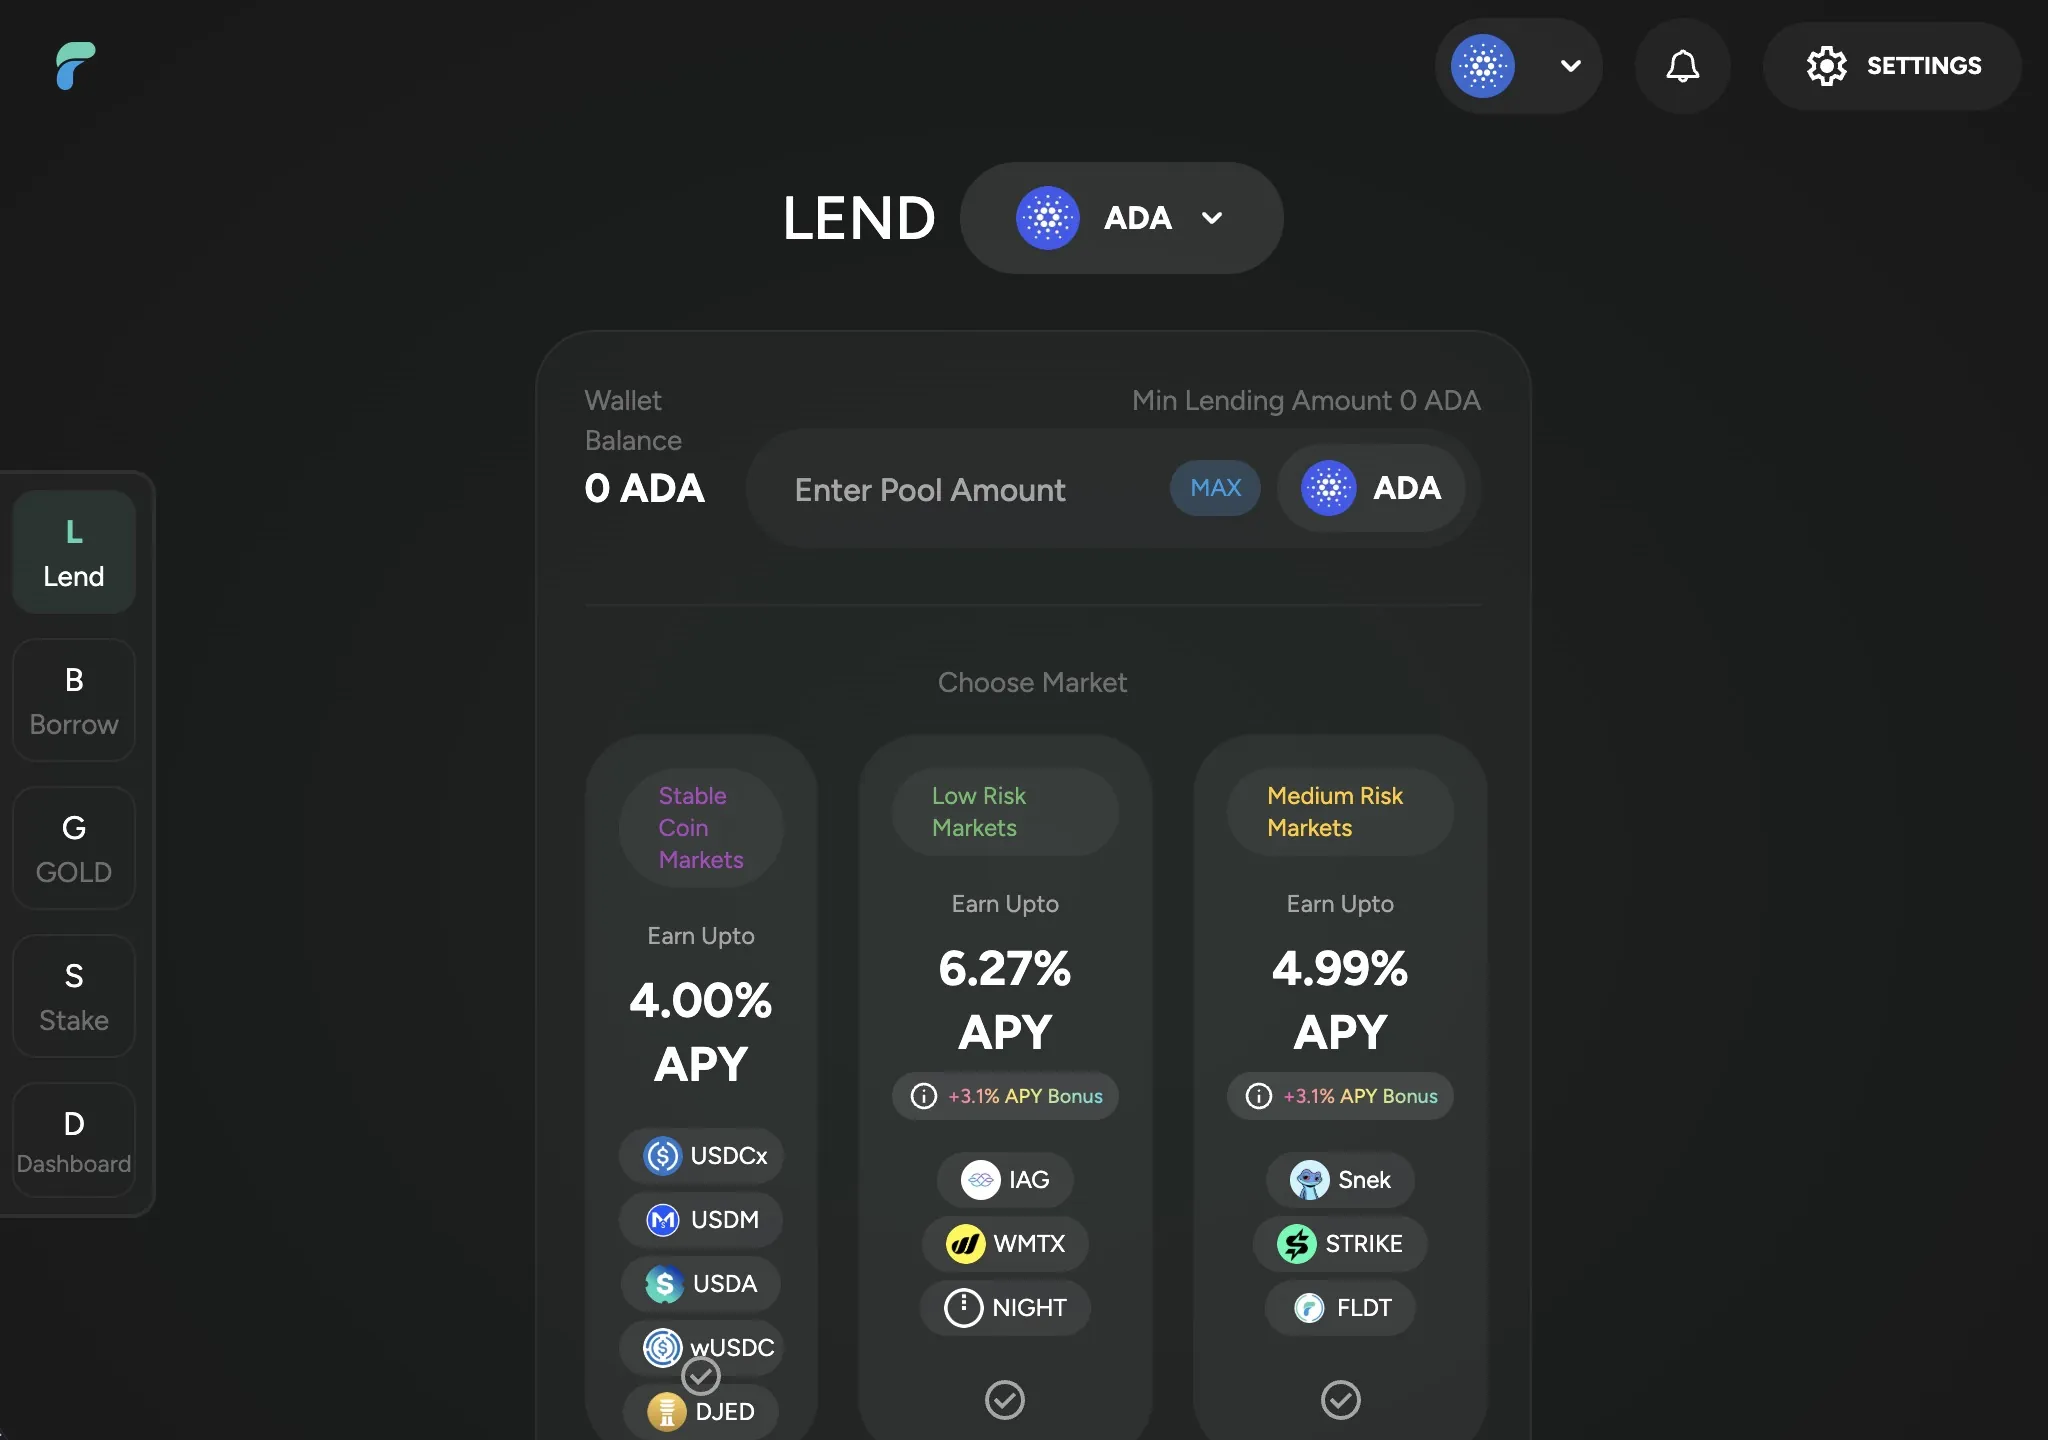
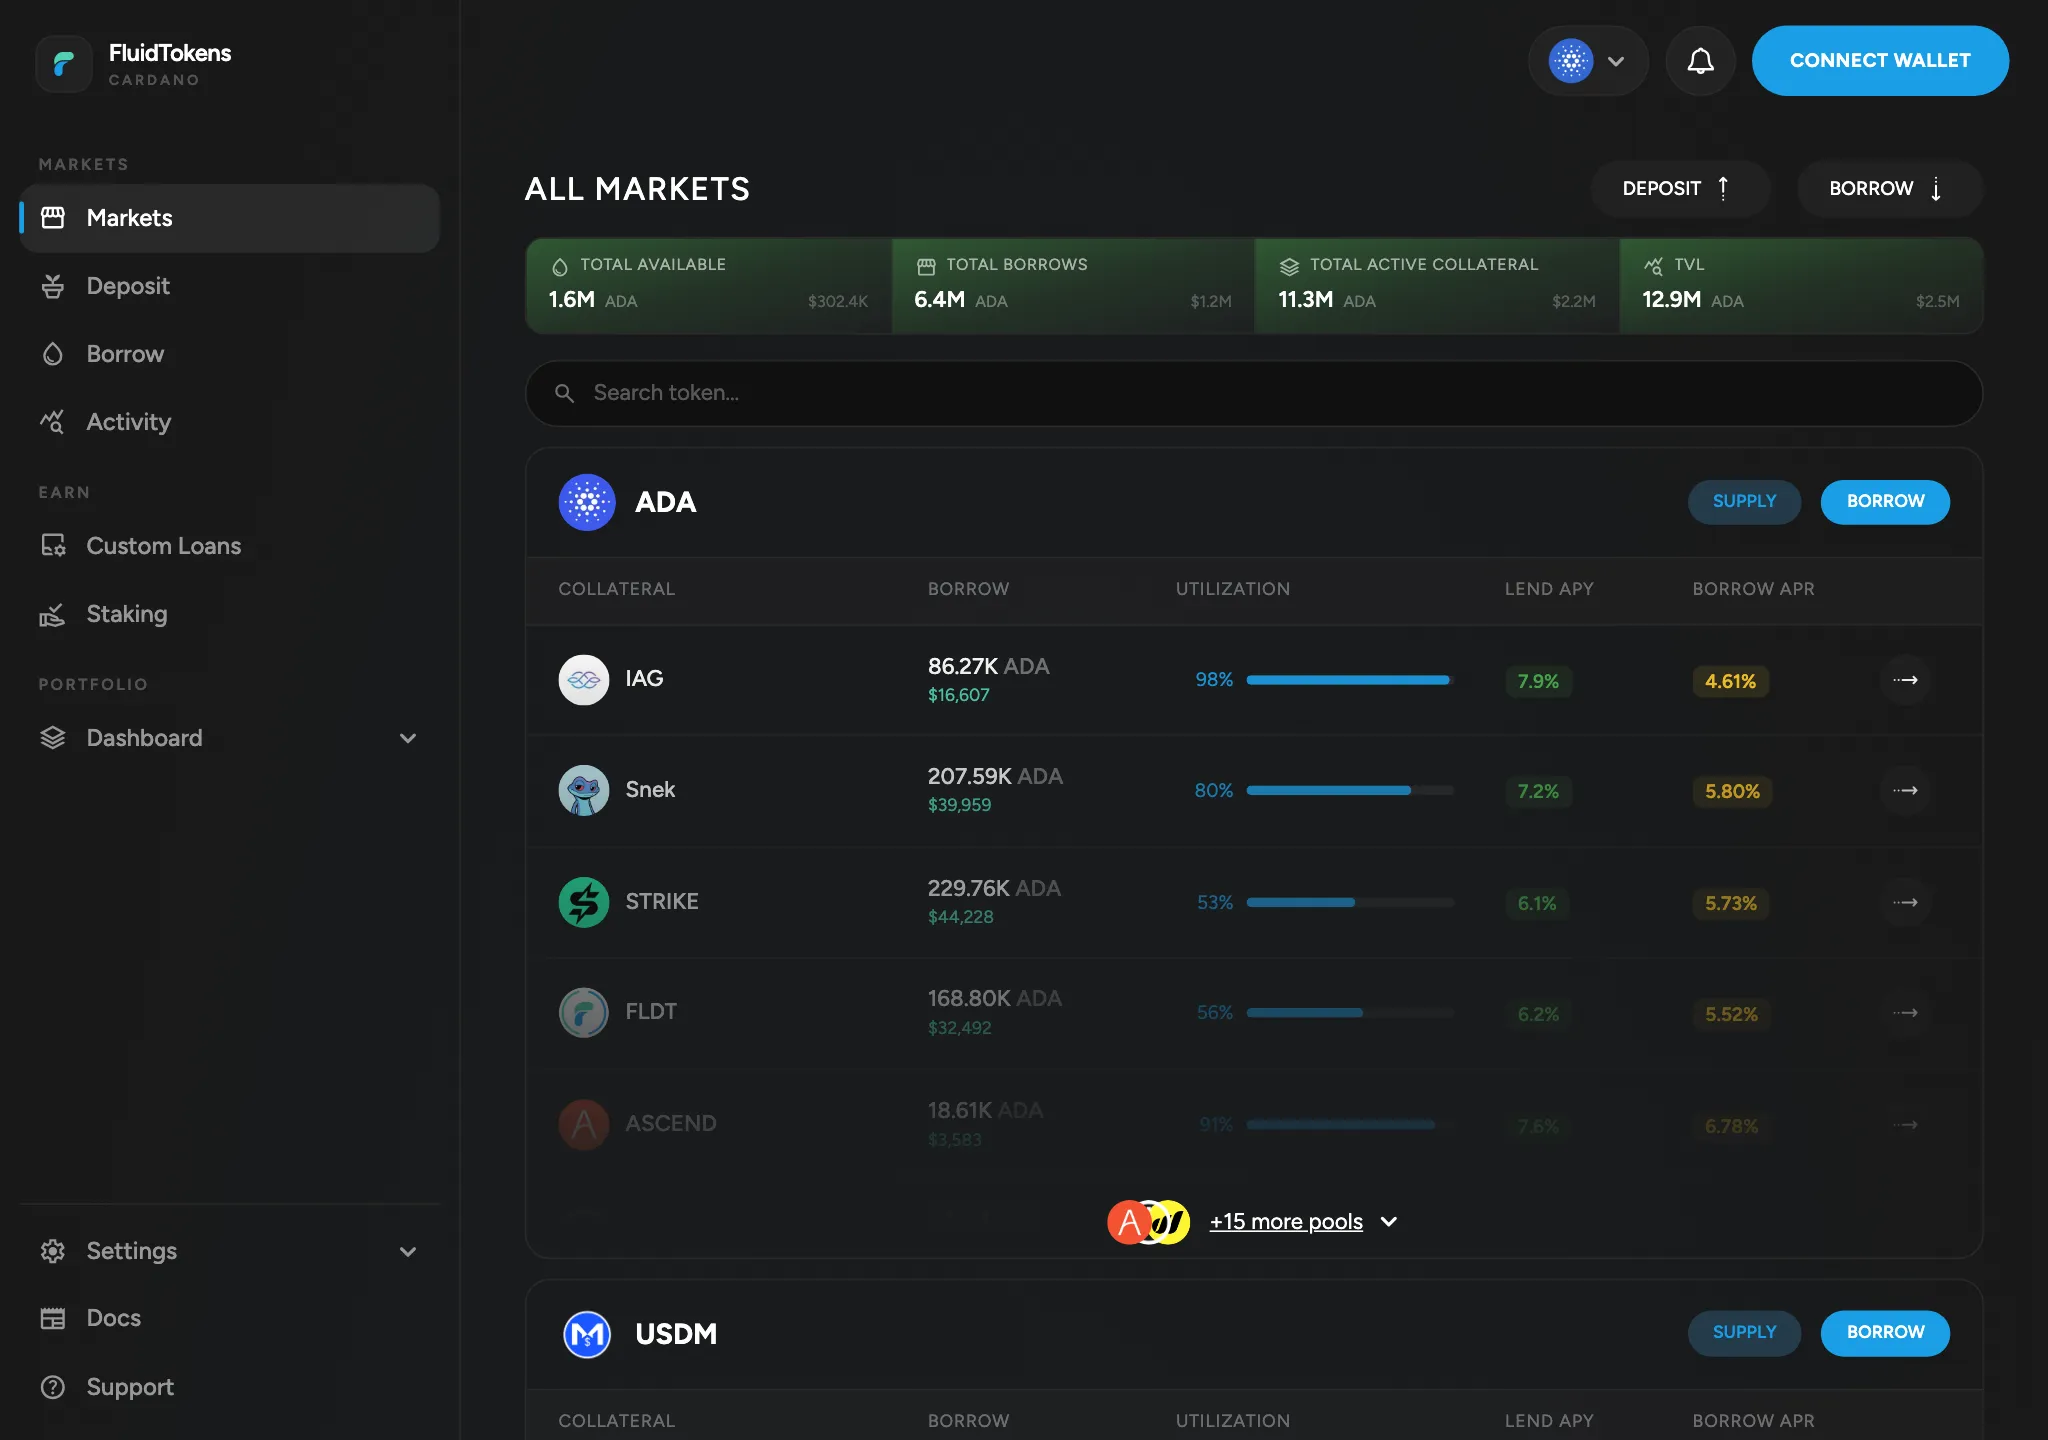
fix: update FluidTokens screenshots and add statsLabel (#1008)
Add statsLabel "fluid-tokens" so the /apps tile, detail page and lending
ordering pick up the existing tx-stats entry. Refresh the preview and
extra screenshots after the app UI redesign, drop the obsolete Gold view
and regenerate the OG card.

diff --git a/src/data/apps.js b/src/data/apps.js
@@ -1284,9 +1284,11 @@ export const Showcases = [
     preview: require("./app-screenshots/fluidtokens.webp"),
     extraPreviews: [
       require("./app-screenshots/fluidtokens-borrow.webp"),
-      require("./app-screenshots/fluidtokens-gold.webp"),
+      require("./app-screenshots/fluidtokens-lend.webp"),
+      require("./app-screenshots/fluidtokens-staking.webp"),
     ],
     icon: "/img/app-icons/fluidtoken.png",
+    statsLabel: "fluid-tokens",
     website: "https://fluidtokens.com/",
     source: "https://github.com/fluidtokens",
     category: "lending",
